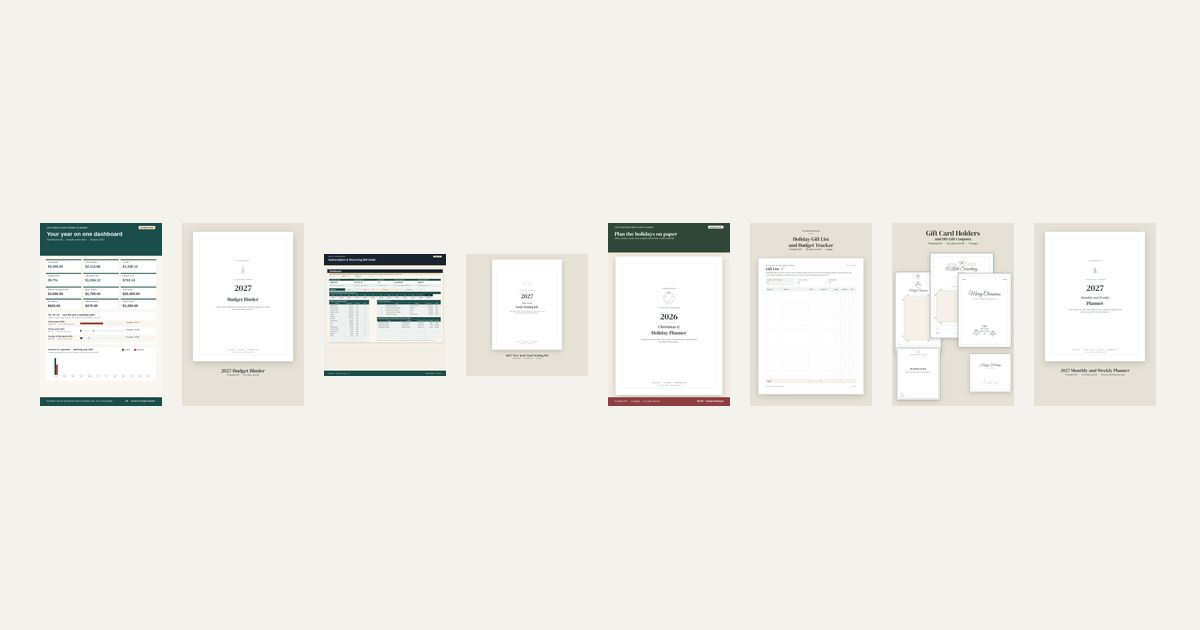
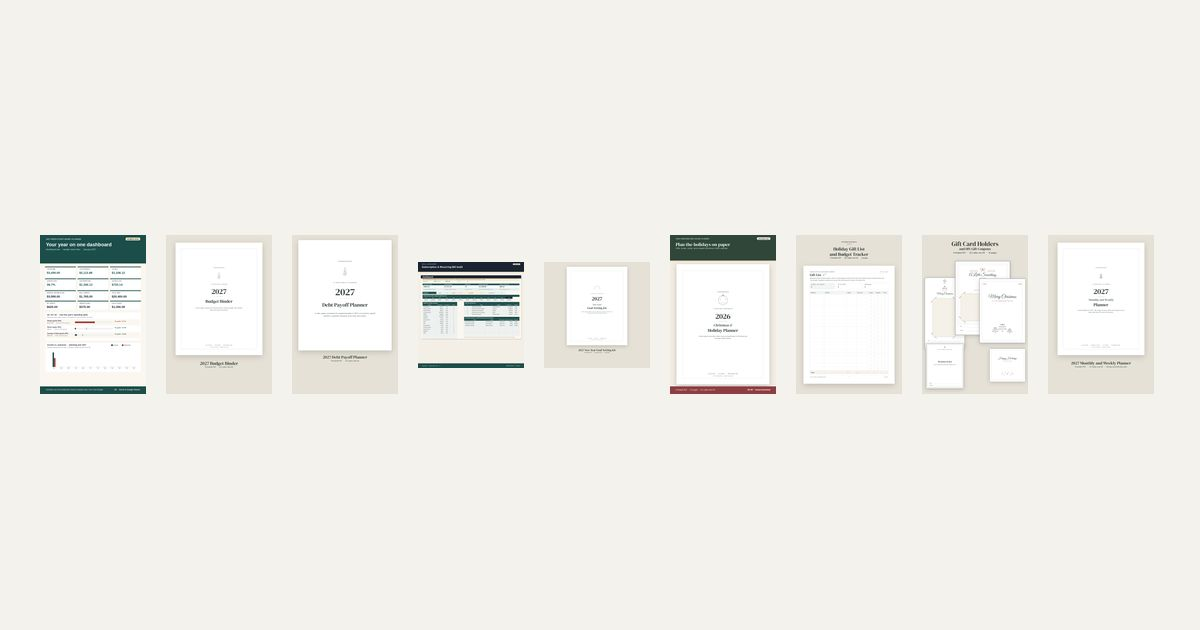
Prep only: 2027 Debt Payoff Planner
Do not merge to main until the Payhip URL arrives. Set buy_url
in _build/products.json from PLACEHOLDER_PAYHIP_URL to the real
https://payhip.com/b/... link, then run python3 _build/build.py
and commit to main.

- Landing page /debt-payoff-planner/, home grid card, $4.99
- Cross-links with /planner/ and /budget-binder/ in both directions
- Keeps the listing wording that this is an organizing tool, not financial advice
- Optimized previews; sitemap would become 11 URLs once published

Changed region(s): [[0.0308, 0.3317, 0.9558, 0.6635]]

diff --git a/debt-payoff-planner/index.html b/debt-payoff-planner/index.html
@@ -1,0 +1,129 @@
+<!DOCTYPE html>
+<html lang="en">
+<head>
+<meta charset="UTF-8">
+<meta name="viewport" content="width=device-width, initial-scale=1">
+<title>2027 Debt Payoff Planner | Frondworks</title>
+<meta name="description" content="A 15-page printable 2027 Debt Payoff Planner: inventory, snowball or avalanche worksheet, payoff trackers, and a 2027 payment schedule. US Letter and A4. $4.99.">
+<link rel="canonical" href="https://frondworks.com/debt-payoff-planner/">
+<meta property="og:type" content="product">
+<meta property="og:site_name" content="Frondworks">
+<meta property="og:title" content="2027 Debt Payoff Planner | Frondworks">
+<meta property="og:description" content="A 15-page printable 2027 Debt Payoff Planner: inventory, snowball or avalanche worksheet, payoff trackers, and a 2027 payment schedule. US Letter and A4. $4.99.">
+<meta property="og:url" content="https://frondworks.com/debt-payoff-planner/">
+<meta property="og:image" content="https://frondworks.com/img/debt-payoff-planner/cover-1200.jpg">
+<meta property="og:image:alt" content="Cover of the 2027 Debt Payoff Planner, a 15-page printable in US Letter and A4">
+<meta name="twitter:card" content="summary_large_image">
+<meta name="twitter:title" content="2027 Debt Payoff Planner | Frondworks">
+<meta name="twitter:description" content="A 15-page printable 2027 Debt Payoff Planner: inventory, snowball or avalanche worksheet, payoff trackers, and a 2027 payment schedule. US Letter and A4. $4.99.">
+<meta name="twitter:image" content="https://frondworks.com/img/debt-payoff-planner/cover-1200.jpg">
+<meta name="theme-color" content="#1f4d3a">
+<link rel="icon" href="/favicon.svg" type="image/svg+xml">
+<link rel="stylesheet" href="/assets/site.css">
+<script type="application/ld+json">{"@context":"https://schema.org","@type":"Product","name":"2027 Debt Payoff Planner","description":"A 15-page printable 2027 Debt Payoff Planner: inventory, snowball or avalanche worksheet, payoff trackers, and a 2027 payment schedule. US Letter and A4. $4.99.","url":"https://frondworks.com/debt-payoff-planner/","image":["https://frondworks.com/img/debt-payoff-planner/cover-1200.jpg","https://frondworks.com/img/debt-payoff-planner/progress-tracker-1200.jpg","https://frondworks.com/img/debt-payoff-planner/payment-schedule-1200.jpg"],"brand":{"@type":"Brand","name":"Frondworks"},"offers":{"@type":"Offer","price":"4.99","priceCurrency":"USD","availability":"https://schema.org/InStock","url":"PLACEHOLDER_PAYHIP_URL","seller":{"@type":"Organization","name":"Frondworks"}}}</script>
+<script type="application/ld+json">{"@context":"https://schema.org","@type":"BreadcrumbList","itemListElement":[{"@type":"ListItem","position":1,"name":"Frondworks","item":"https://frondworks.com/"},{"@type":"ListItem","position":2,"name":"2027 Debt Payoff Planner","item":"https://frondworks.com/debt-payoff-planner/"}]}</script>
+</head>
+<body>
+<a class="skip" href="#main">Skip to content</a>
+<header class="site-header">
+  <div class="wrap bar">
+    <a class="brand" href="/">Frondworks</a>
+    <nav aria-label="Main">
+      <a href="/#products">Products</a>
+      <a href="/#faq">FAQ</a>
+      <a href="/#contact">Contact</a>
+      <a class="nav-shop" href="https://payhip.com/Frondworks">Shop</a>
+    </nav>
+  </div>
+</header>
+<main id="main">
+  <section class="section product">
+    <div class="wrap">
+      <p class="crumbs"><a href="/">Home</a> <span aria-hidden="true">/</span> <a href="/#products">Products</a></p>
+      <h1>2027 Debt Payoff Planner</h1>
+      <p class="lede">A 15-page printable planner for organizing debts in 2027, with an inventory, snowball or avalanche worksheet, payoff trackers, and a 2027 payment schedule. US Letter and A4.</p>
+      <div class="buy">
+        <p class="price">$4.99 <span>USD</span></p>
+        <a class="btn big" href="PLACEHOLDER_PAYHIP_URL">Buy on Payhip</a>
+      </div>
+      <p class="callout"><a href="/planner/">Pair it with the 2027 Fresh Start Money Planner</a></p>
+      <p class="callout"><a href="/budget-binder/">Pair it with the 2027 Budget Binder</a></p>
+      <ul class="gallery" aria-label="Preview images">
+        <li><a href="/img/debt-payoff-planner/cover-1200.jpg"><picture><source type="image/webp" srcset="/img/debt-payoff-planner/cover-600.webp 400w, /img/debt-payoff-planner/cover-1200.webp 800w" sizes="(min-width: 900px) 33vw, 92vw"><img src="/img/debt-payoff-planner/cover-1200.jpg" alt="Cover of the 2027 Debt Payoff Planner, a 15-page printable in US Letter and A4" width="800" height="1200" fetchpriority="high"></picture></a></li>
+        <li><a href="/img/debt-payoff-planner/progress-tracker-1200.jpg"><picture><source type="image/webp" srcset="/img/debt-payoff-planner/progress-tracker-600.webp 400w, /img/debt-payoff-planner/progress-tracker-1200.webp 800w" sizes="(min-width: 900px) 33vw, 92vw"><img src="/img/debt-payoff-planner/progress-tracker-1200.jpg" alt="Debt payoff tracker and 100-square color-in progress chart pages" width="800" height="1200" loading="lazy" decoding="async"></picture></a></li>
+        <li><a href="/img/debt-payoff-planner/payment-schedule-1200.jpg"><picture><source type="image/webp" srcset="/img/debt-payoff-planner/payment-schedule-600.webp 400w, /img/debt-payoff-planner/payment-schedule-1200.webp 800w" sizes="(min-width: 900px) 33vw, 92vw"><img src="/img/debt-payoff-planner/payment-schedule-1200.jpg" alt="Monthly payment schedule page for January to December 2027" width="800" height="1200" loading="lazy" decoding="async"></picture></a></li>
+      </ul>
+    </div>
+    <div class="wrap narrow desc">
+      <h2>A calm, printable planner for organizing debts in 2027, made for home printing.</h2>
+      <p>This planner is an organizing tool, not financial advice. It does not calculate payoff dates or interest, and it does not tell you which method to use. Totals are left blank so you can add them by hand.</p>
+      <h3>Inside you will find</h3>
+      <ul class="ticks">
+        <li>A debt inventory, with space for the creditor, type, balance, interest rate, minimum payment, and due date.</li>
+        <li>A plain-language page on two common orders, snowball and avalanche, plus an ordering worksheet. Snowball orders debts from the smallest balance to the largest. Avalanche orders them from the highest interest rate to the lowest.</li>
+        <li>Six debt payoff trackers, each with a balance log and a small progress bar you can color in. Reprint a tracker if you have more than six debts.</li>
+        <li>A 100-square color-in progress chart for your starting total debt, a monthly payment schedule for January to December 2027, an interest and fees log, a page for optional milestone celebrations, and a year-end debt review.</li>
+      </ul>
+      <p>The planner is 15 pages, designed for home printing, with a calm layout, generous writing space, and light ink use.</p>
+      <p>You will receive two PDFs, one US Letter and one A4, plus a one-page terms of use. This is a digital download. No physical item will be shipped.</p>
+      <p>This is a planning tool, not financial advice. It does not calculate payoff dates or interest, and it does not tell you which method to use.</p>
+      <p>Print at 100% actual size, and reprint any page whenever you need a fresh copy.</p>
+      <p class="callout"><a href="/planner/">Pair it with the 2027 Fresh Start Money Planner</a></p>
+      <p class="callout"><a href="/budget-binder/">Pair it with the 2027 Budget Binder</a></p>
+      <div class="buy">
+        <p class="price">$4.99 <span>USD</span></p>
+        <a class="btn big" href="PLACEHOLDER_PAYHIP_URL">Buy on Payhip</a>
+      </div>
+      <p>Questions? See the <a href="/#faq">FAQ</a> or email <a href="mailto:hello@frondworks.com">hello@frondworks.com</a>.</p>
+      <h2 class="small">More from Frondworks</h2>
+      <ul>
+        <li><a href="/bundle/">2027 Fresh Start Bundle</a>, $14.99</li>
+        <li><a href="/planner/">2027 Fresh Start Money Planner</a>, $9</li>
+        <li><a href="/budget-binder/">2027 Budget Binder</a>, $6.99</li>
+        <li><a href="/bill-audit/">Subscription and Recurring Bill Audit</a>, $7</li>
+        <li><a href="/goal-kit/">2027 New Year Goal-Setting Kit</a>, $4.99</li>
+        <li><a href="/holiday-planner/">2026 Christmas and Holiday Planner</a>, $4.99</li>
+        <li><a href="/gift-list-tracker/">Holiday Gift List and Budget Tracker</a>, Free</li>
+        <li><a href="/gift-card-holders/">Printable Gift Card Holders and DIY Gift Coupons</a>, $4.99</li>
+        <li><a href="/monthly-weekly-planner/">2027 Monthly and Weekly Planner</a>, $4.99</li>
+        <li><a href="https://payhip.com/Frondworks">The full shop on Payhip</a></li>
+      </ul>
+    </div>
+  </section>
+</main>
+<footer class="site-footer">
+  <div class="wrap foot">
+    <div>
+      <p class="brand">Frondworks</p>
+      <p>Practical printables and spreadsheets for money, planning, and goals.</p>
+    </div>
+    <div>
+      <h2>Products</h2>
+      <ul>
+        <li><a href="/bundle/">2027 Fresh Start Bundle</a></li>
+        <li><a href="/planner/">2027 Fresh Start Money Planner</a></li>
+        <li><a href="/budget-binder/">2027 Budget Binder</a></li>
+        <li><a href="/debt-payoff-planner/">2027 Debt Payoff Planner</a></li>
+        <li><a href="/bill-audit/">Subscription and Recurring Bill Audit</a></li>
+        <li><a href="/goal-kit/">2027 New Year Goal-Setting Kit</a></li>
+        <li><a href="/holiday-planner/">2026 Christmas and Holiday Planner</a></li>
+        <li><a href="/gift-list-tracker/">Holiday Gift List and Budget Tracker</a></li>
+        <li><a href="/gift-card-holders/">Printable Gift Card Holders and DIY Gift Coupons</a></li>
+        <li><a href="/monthly-weekly-planner/">2027 Monthly and Weekly Planner</a></li>
+        <li><a href="https://payhip.com/Frondworks">Full shop on Payhip</a></li>
+      </ul>
+    </div>
+    <div>
+      <h2>Help</h2>
+      <ul>
+        <li><a href="/#faq">FAQ</a></li>
+        <li><a href="/#contact">Contact form</a></li>
+        <li><a href="mailto:hello@frondworks.com">hello@frondworks.com</a></li>
+      </ul>
+    </div>
+  </div>
+  <div class="wrap legal">&copy; 2026 Frondworks</div>
+</footer>
+<script src="/assets/site.js" defer></script>
+</body>
+</html>

diff --git a/index.html b/index.html
@@ -22,7 +22,7 @@
 <link rel="stylesheet" href="/assets/site.css">
 <script type="application/ld+json">{"@context":"https://schema.org","@type":"Organization","name":"Frondworks","url":"https://frondworks.com/","email":"hello@frondworks.com","sameAs":["https://payhip.com/Frondworks"]}</script>
 <script type="application/ld+json">{"@context":"https://schema.org","@type":"WebSite","name":"Frondworks","url":"https://frondworks.com/"}</script>
-<script type="application/ld+json">{"@context":"https://schema.org","@type":"ItemList","itemListElement":[{"@type":"ListItem","position":1,"url":"https://frondworks.com/bundle/","name":"2027 Fresh Start Bundle"},{"@type":"ListItem","position":2,"url":"https://frondworks.com/planner/","name":"2027 Fresh Start Money Planner"},{"@type":"ListItem","position":3,"url":"https://frondworks.com/budget-binder/","name":"2027 Budget Binder"},{"@type":"ListItem","position":4,"url":"https://frondworks.com/bill-audit/","name":"Subscription and Recurring Bill Audit"},{"@type":"ListItem","position":5,"url":"https://frondworks.com/goal-kit/","name":"2027 New Year Goal-Setting Kit"},{"@type":"ListItem","position":6,"url":"https://frondworks.com/holiday-planner/","name":"2026 Christmas and Holiday Planner"},{"@type":"ListItem","position":7,"url":"https://frondworks.com/gift-list-tracker/","name":"Holiday Gift List and Budget Tracker"},{"@type":"ListItem","position":8,"url":"https://frondworks.com/gift-card-holders/","name":"Printable Gift Card Holders and DIY Gift Coupons"},{"@type":"ListItem","position":9,"url":"https://frondworks.com/monthly-weekly-planner/","name":"2027 Monthly and Weekly Planner"}]}</script>
+<script type="application/ld+json">{"@context":"https://schema.org","@type":"ItemList","itemListElement":[{"@type":"ListItem","position":1,"url":"https://frondworks.com/bundle/","name":"2027 Fresh Start Bundle"},{"@type":"ListItem","position":2,"url":"https://frondworks.com/planner/","name":"2027 Fresh Start Money Planner"},{"@type":"ListItem","position":3,"url":"https://frondworks.com/budget-binder/","name":"2027 Budget Binder"},{"@type":"ListItem","position":4,"url":"https://frondworks.com/debt-payoff-planner/","name":"2027 Debt Payoff Planner"},{"@type":"ListItem","position":5,"url":"https://frondworks.com/bill-audit/","name":"Subscription and Recurring Bill Audit"},{"@type":"ListItem","position":6,"url":"https://frondworks.com/goal-kit/","name":"2027 New Year Goal-Setting Kit"},{"@type":"ListItem","position":7,"url":"https://frondworks.com/holiday-planner/","name":"2026 Christmas and Holiday Planner"},{"@type":"ListItem","position":8,"url":"https://frondworks.com/gift-list-tracker/","name":"Holiday Gift List and Budget Tracker"},{"@type":"ListItem","position":9,"url":"https://frondworks.com/gift-card-holders/","name":"Printable Gift Card Holders and DIY Gift Coupons"},{"@type":"ListItem","position":10,"url":"https://frondworks.com/monthly-weekly-planner/","name":"2027 Monthly and Weekly Planner"}]}</script>
 </head>
 <body>
 <a class="skip" href="#main">Skip to content</a>
@@ -88,6 +88,19 @@
           <div class="actions">
             <a class="btn" href="https://payhip.com/b/mHLPy">Buy on Payhip<span class="sr">, 2027 Budget Binder</span></a>
             <a class="btn ghost" href="/budget-binder/">Details<span class="sr">, 2027 Budget Binder</span></a>
+          </div>
+        </div>
+      </li>
+      <li class="card">
+        <a class="card-img" href="/debt-payoff-planner/" tabindex="-1" aria-hidden="true"><picture><source type="image/webp" srcset="/img/debt-payoff-planner/cover-600.webp 400w, /img/debt-payoff-planner/cover-1200.webp 800w" sizes="(min-width: 900px) 360px, (min-width: 600px) 45vw, 92vw"><img src="/img/debt-payoff-planner/cover-1200.jpg" alt="Cover of the 2027 Debt Payoff Planner, a 15-page printable in US Letter and A4" width="800" height="1200" loading="lazy" decoding="async"></picture></a>
+        <div class="card-body">
+          <h3><a href="/debt-payoff-planner/">2027 Debt Payoff Planner</a></h3>
+          <p class="fmt">Printable PDF, US Letter and A4</p>
+          <p>A 15-page printable planner for organizing debts in 2027, with an inventory, payoff trackers, and a monthly payment schedule.</p>
+          <p class="price">$4.99</p>
+          <div class="actions">
+            <a class="btn" href="PLACEHOLDER_PAYHIP_URL">Buy on Payhip<span class="sr">, 2027 Debt Payoff Planner</span></a>
+            <a class="btn ghost" href="/debt-payoff-planner/">Details<span class="sr">, 2027 Debt Payoff Planner</span></a>
           </div>
         </div>
       </li>
@@ -190,7 +203,7 @@
       </details>
       <details>
         <summary>What formats are the files?</summary>
-        <p>The Money Planner and Bill Audit are Excel workbooks that also work in Google Sheets, with instructions PDFs. The Goal-Setting Kit and Christmas and Holiday Planner are printable PDFs in US Letter and A4. The Monthly and Weekly Planner includes four PDFs: US Letter and A4, in Sunday start and Monday start editions. The Budget Binder is a 28-page printable PDF in US Letter and A4. The Holiday Gift List and Budget Tracker is a free two-page printable PDF in US Letter and A4. The Gift Card Holders and DIY Gift Coupons pack is a 15-page printable PDF in US Letter and A4. The 2027 Fresh Start Bundle includes the Money Planner, the Bill Audit, and the Goal-Setting Kit in one purchase.</p>
+        <p>The Money Planner and Bill Audit are Excel workbooks that also work in Google Sheets, with instructions PDFs. The Goal-Setting Kit and Christmas and Holiday Planner are printable PDFs in US Letter and A4. The Monthly and Weekly Planner includes four PDFs: US Letter and A4, in Sunday start and Monday start editions. The Budget Binder is a 28-page printable PDF in US Letter and A4. The Holiday Gift List and Budget Tracker is a free two-page printable PDF in US Letter and A4. The Gift Card Holders and DIY Gift Coupons pack is a 15-page printable PDF in US Letter and A4. The Debt Payoff Planner is a 15-page printable PDF in US Letter and A4. The 2027 Fresh Start Bundle includes the Money Planner, the Bill Audit, and the Goal-Setting Kit in one purchase.</p>
       </details>
       <details>
         <summary>What is in the 2027 Fresh Start Bundle?</summary>
@@ -282,6 +295,7 @@
         <li><a href="/bundle/">2027 Fresh Start Bundle</a></li>
         <li><a href="/planner/">2027 Fresh Start Money Planner</a></li>
         <li><a href="/budget-binder/">2027 Budget Binder</a></li>
+        <li><a href="/debt-payoff-planner/">2027 Debt Payoff Planner</a></li>
         <li><a href="/bill-audit/">Subscription and Recurring Bill Audit</a></li>
         <li><a href="/goal-kit/">2027 New Year Goal-Setting Kit</a></li>
         <li><a href="/holiday-planner/">2026 Christmas and Holiday Planner</a></li>

diff --git a/planner/index.html b/planner/index.html
@@ -48,6 +48,7 @@
       </div>
       <p class="callout"><a href="/bundle/">Get all three in the 2027 Fresh Start Bundle for $14.99</a>. Bought separately they are $20.99, so you save $6.</p>
       <p class="callout"><a href="/budget-binder/">Pair it with the 2027 Budget Binder</a></p>
+      <p class="callout"><a href="/debt-payoff-planner/">Pair it with the 2027 Debt Payoff Planner</a></p>
       <ul class="gallery" aria-label="Preview images">
         <li><a href="/img/planner/dashboard-1200.jpg"><picture><source type="image/webp" srcset="/img/planner/dashboard-600.webp 400w, /img/planner/dashboard-1200.webp 800w" sizes="(min-width: 900px) 33vw, 92vw"><img src="/img/planner/dashboard-1200.jpg" alt="Planner dashboard tab with year-to-date totals, a 50/30/20 split, and a monthly income vs. expenses chart, filled with sample data" width="800" height="1200" fetchpriority="high"></picture></a></li>
         <li><a href="/img/planner/holiday-cap-1200.jpg"><picture><source type="image/webp" srcset="/img/planner/holiday-cap-600.webp 400w, /img/planner/holiday-cap-1200.webp 800w" sizes="(min-width: 900px) 33vw, 92vw"><img src="/img/planner/holiday-cap-1200.jpg" alt="Holiday Planner tab with a spending cap, other holiday expenses, and a gift list, filled with sample data" width="800" height="1200" loading="lazy" decoding="async"></picture></a></li>
@@ -70,6 +71,7 @@
       <p>This is a planning tool, not financial advice. It does not sync with a bank or send reminders.</p>
       <p class="callout"><a href="/bundle/">Get all three in the 2027 Fresh Start Bundle for $14.99</a>. Bought separately they are $20.99, so you save $6.</p>
       <p class="callout"><a href="/budget-binder/">Pair it with the 2027 Budget Binder</a></p>
+      <p class="callout"><a href="/debt-payoff-planner/">Pair it with the 2027 Debt Payoff Planner</a></p>
       <div class="buy">
         <p class="price">$9 <span>USD</span></p>
         <a class="btn big" href="https://payhip.com/b/gYt75">Buy on Payhip</a>
@@ -79,6 +81,7 @@
       <ul>
         <li><a href="/bundle/">2027 Fresh Start Bundle</a>, $14.99</li>
         <li><a href="/budget-binder/">2027 Budget Binder</a>, $6.99</li>
+        <li><a href="/debt-payoff-planner/">2027 Debt Payoff Planner</a>, $4.99</li>
         <li><a href="/bill-audit/">Subscription and Recurring Bill Audit</a>, $7</li>
         <li><a href="/goal-kit/">2027 New Year Goal-Setting Kit</a>, $4.99</li>
         <li><a href="/holiday-planner/">2026 Christmas and Holiday Planner</a>, $4.99</li>
@@ -102,6 +105,7 @@
         <li><a href="/bundle/">2027 Fresh Start Bundle</a></li>
         <li><a href="/planner/">2027 Fresh Start Money Planner</a></li>
         <li><a href="/budget-binder/">2027 Budget Binder</a></li>
+        <li><a href="/debt-payoff-planner/">2027 Debt Payoff Planner</a></li>
         <li><a href="/bill-audit/">Subscription and Recurring Bill Audit</a></li>
         <li><a href="/goal-kit/">2027 New Year Goal-Setting Kit</a></li>
         <li><a href="/holiday-planner/">2026 Christmas and Holiday Planner</a></li>

diff --git a/budget-binder/index.html b/budget-binder/index.html
@@ -47,6 +47,7 @@
         <a class="btn big" href="https://payhip.com/b/mHLPy">Buy on Payhip</a>
       </div>
       <p class="callout"><a href="/planner/">Pair it with the 2027 Fresh Start Money Planner</a></p>
+      <p class="callout"><a href="/debt-payoff-planner/">Pair it with the 2027 Debt Payoff Planner</a></p>
       <ul class="gallery" aria-label="Preview images">
         <li><a href="/img/budget-binder/cover-1200.jpg"><picture><source type="image/webp" srcset="/img/budget-binder/cover-600.webp 400w, /img/budget-binder/cover-1200.webp 800w" sizes="(min-width: 900px) 33vw, 92vw"><img src="/img/budget-binder/cover-1200.jpg" alt="Cover of the 2027 Budget Binder, a 28-page printable in US Letter and A4" width="800" height="1200" fetchpriority="high"></picture></a></li>
         <li><a href="/img/budget-binder/monthly-budget-1200.jpg"><picture><source type="image/webp" srcset="/img/budget-binder/monthly-budget-600.webp 400w, /img/budget-binder/monthly-budget-1200.webp 800w" sizes="(min-width: 900px) 33vw, 92vw"><img src="/img/budget-binder/monthly-budget-1200.jpg" alt="January 2027 monthly budget page with income, bills, categories, and columns for budgeted, actual, and difference" width="800" height="1200" loading="lazy" decoding="async"></picture></a></li>
@@ -68,6 +69,7 @@
       <p>This is a planning tool, not financial advice. It does not connect to a bank or calculate totals for you.</p>
       <p>Print at 100% actual size, and reprint any page whenever you need a fresh copy.</p>
       <p class="callout"><a href="/planner/">Pair it with the 2027 Fresh Start Money Planner</a></p>
+      <p class="callout"><a href="/debt-payoff-planner/">Pair it with the 2027 Debt Payoff Planner</a></p>
       <div class="buy">
         <p class="price">$6.99 <span>USD</span></p>
         <a class="btn big" href="https://payhip.com/b/mHLPy">Buy on Payhip</a>
@@ -77,6 +79,7 @@
       <ul>
         <li><a href="/bundle/">2027 Fresh Start Bundle</a>, $14.99</li>
         <li><a href="/planner/">2027 Fresh Start Money Planner</a>, $9</li>
+        <li><a href="/debt-payoff-planner/">2027 Debt Payoff Planner</a>, $4.99</li>
         <li><a href="/bill-audit/">Subscription and Recurring Bill Audit</a>, $7</li>
         <li><a href="/goal-kit/">2027 New Year Goal-Setting Kit</a>, $4.99</li>
         <li><a href="/holiday-planner/">2026 Christmas and Holiday Planner</a>, $4.99</li>
@@ -100,6 +103,7 @@
         <li><a href="/bundle/">2027 Fresh Start Bundle</a></li>
         <li><a href="/planner/">2027 Fresh Start Money Planner</a></li>
         <li><a href="/budget-binder/">2027 Budget Binder</a></li>
+        <li><a href="/debt-payoff-planner/">2027 Debt Payoff Planner</a></li>
         <li><a href="/bill-audit/">Subscription and Recurring Bill Audit</a></li>
         <li><a href="/goal-kit/">2027 New Year Goal-Setting Kit</a></li>
         <li><a href="/holiday-planner/">2026 Christmas and Holiday Planner</a></li>

diff --git a/goal-kit/index.html b/goal-kit/index.html
@@ -79,6 +79,7 @@
         <li><a href="/bundle/">2027 Fresh Start Bundle</a>, $14.99</li>
         <li><a href="/planner/">2027 Fresh Start Money Planner</a>, $9</li>
         <li><a href="/budget-binder/">2027 Budget Binder</a>, $6.99</li>
+        <li><a href="/debt-payoff-planner/">2027 Debt Payoff Planner</a>, $4.99</li>
         <li><a href="/bill-audit/">Subscription and Recurring Bill Audit</a>, $7</li>
         <li><a href="/holiday-planner/">2026 Christmas and Holiday Planner</a>, $4.99</li>
         <li><a href="/gift-list-tracker/">Holiday Gift List and Budget Tracker</a>, Free</li>
@@ -101,6 +102,7 @@
         <li><a href="/bundle/">2027 Fresh Start Bundle</a></li>
         <li><a href="/planner/">2027 Fresh Start Money Planner</a></li>
         <li><a href="/budget-binder/">2027 Budget Binder</a></li>
+        <li><a href="/debt-payoff-planner/">2027 Debt Payoff Planner</a></li>
         <li><a href="/bill-audit/">Subscription and Recurring Bill Audit</a></li>
         <li><a href="/goal-kit/">2027 New Year Goal-Setting Kit</a></li>
         <li><a href="/holiday-planner/">2026 Christmas and Holiday Planner</a></li>

diff --git a/bill-audit/index.html b/bill-audit/index.html
@@ -75,6 +75,7 @@
         <li><a href="/bundle/">2027 Fresh Start Bundle</a>, $14.99</li>
         <li><a href="/planner/">2027 Fresh Start Money Planner</a>, $9</li>
         <li><a href="/budget-binder/">2027 Budget Binder</a>, $6.99</li>
+        <li><a href="/debt-payoff-planner/">2027 Debt Payoff Planner</a>, $4.99</li>
         <li><a href="/goal-kit/">2027 New Year Goal-Setting Kit</a>, $4.99</li>
         <li><a href="/holiday-planner/">2026 Christmas and Holiday Planner</a>, $4.99</li>
         <li><a href="/gift-list-tracker/">Holiday Gift List and Budget Tracker</a>, Free</li>
@@ -97,6 +98,7 @@
         <li><a href="/bundle/">2027 Fresh Start Bundle</a></li>
         <li><a href="/planner/">2027 Fresh Start Money Planner</a></li>
         <li><a href="/budget-binder/">2027 Budget Binder</a></li>
+        <li><a href="/debt-payoff-planner/">2027 Debt Payoff Planner</a></li>
         <li><a href="/bill-audit/">Subscription and Recurring Bill Audit</a></li>
         <li><a href="/goal-kit/">2027 New Year Goal-Setting Kit</a></li>
         <li><a href="/holiday-planner/">2026 Christmas and Holiday Planner</a></li>

diff --git a/holiday-planner/index.html b/holiday-planner/index.html
@@ -81,6 +81,7 @@
         <li><a href="/bundle/">2027 Fresh Start Bundle</a>, $14.99</li>
         <li><a href="/planner/">2027 Fresh Start Money Planner</a>, $9</li>
         <li><a href="/budget-binder/">2027 Budget Binder</a>, $6.99</li>
+        <li><a href="/debt-payoff-planner/">2027 Debt Payoff Planner</a>, $4.99</li>
         <li><a href="/bill-audit/">Subscription and Recurring Bill Audit</a>, $7</li>
         <li><a href="/goal-kit/">2027 New Year Goal-Setting Kit</a>, $4.99</li>
         <li><a href="/gift-list-tracker/">Holiday Gift List and Budget Tracker</a>, Free</li>
@@ -103,6 +104,7 @@
         <li><a href="/bundle/">2027 Fresh Start Bundle</a></li>
         <li><a href="/planner/">2027 Fresh Start Money Planner</a></li>
         <li><a href="/budget-binder/">2027 Budget Binder</a></li>
+        <li><a href="/debt-payoff-planner/">2027 Debt Payoff Planner</a></li>
         <li><a href="/bill-audit/">Subscription and Recurring Bill Audit</a></li>
         <li><a href="/goal-kit/">2027 New Year Goal-Setting Kit</a></li>
         <li><a href="/holiday-planner/">2026 Christmas and Holiday Planner</a></li>

diff --git a/gift-card-holders/index.html b/gift-card-holders/index.html
@@ -78,6 +78,7 @@
         <li><a href="/bundle/">2027 Fresh Start Bundle</a>, $14.99</li>
         <li><a href="/planner/">2027 Fresh Start Money Planner</a>, $9</li>
         <li><a href="/budget-binder/">2027 Budget Binder</a>, $6.99</li>
+        <li><a href="/debt-payoff-planner/">2027 Debt Payoff Planner</a>, $4.99</li>
         <li><a href="/bill-audit/">Subscription and Recurring Bill Audit</a>, $7</li>
         <li><a href="/goal-kit/">2027 New Year Goal-Setting Kit</a>, $4.99</li>
         <li><a href="/holiday-planner/">2026 Christmas and Holiday Planner</a>, $4.99</li>
@@ -100,6 +101,7 @@
         <li><a href="/bundle/">2027 Fresh Start Bundle</a></li>
         <li><a href="/planner/">2027 Fresh Start Money Planner</a></li>
         <li><a href="/budget-binder/">2027 Budget Binder</a></li>
+        <li><a href="/debt-payoff-planner/">2027 Debt Payoff Planner</a></li>
         <li><a href="/bill-audit/">Subscription and Recurring Bill Audit</a></li>
         <li><a href="/goal-kit/">2027 New Year Goal-Setting Kit</a></li>
         <li><a href="/holiday-planner/">2026 Christmas and Holiday Planner</a></li>

diff --git a/gift-list-tracker/index.html b/gift-list-tracker/index.html
@@ -81,6 +81,7 @@
         <li><a href="/bundle/">2027 Fresh Start Bundle</a>, $14.99</li>
         <li><a href="/planner/">2027 Fresh Start Money Planner</a>, $9</li>
         <li><a href="/budget-binder/">2027 Budget Binder</a>, $6.99</li>
+        <li><a href="/debt-payoff-planner/">2027 Debt Payoff Planner</a>, $4.99</li>
         <li><a href="/bill-audit/">Subscription and Recurring Bill Audit</a>, $7</li>
         <li><a href="/goal-kit/">2027 New Year Goal-Setting Kit</a>, $4.99</li>
         <li><a href="/holiday-planner/">2026 Christmas and Holiday Planner</a>, $4.99</li>
@@ -103,6 +104,7 @@
         <li><a href="/bundle/">2027 Fresh Start Bundle</a></li>
         <li><a href="/planner/">2027 Fresh Start Money Planner</a></li>
         <li><a href="/budget-binder/">2027 Budget Binder</a></li>
+        <li><a href="/debt-payoff-planner/">2027 Debt Payoff Planner</a></li>
         <li><a href="/bill-audit/">Subscription and Recurring Bill Audit</a></li>
         <li><a href="/goal-kit/">2027 New Year Goal-Setting Kit</a></li>
         <li><a href="/holiday-planner/">2026 Christmas and Holiday Planner</a></li>

diff --git a/monthly-weekly-planner/index.html b/monthly-weekly-planner/index.html
@@ -76,6 +76,7 @@
         <li><a href="/bundle/">2027 Fresh Start Bundle</a>, $14.99</li>
         <li><a href="/planner/">2027 Fresh Start Money Planner</a>, $9</li>
         <li><a href="/budget-binder/">2027 Budget Binder</a>, $6.99</li>
+        <li><a href="/debt-payoff-planner/">2027 Debt Payoff Planner</a>, $4.99</li>
         <li><a href="/bill-audit/">Subscription and Recurring Bill Audit</a>, $7</li>
         <li><a href="/goal-kit/">2027 New Year Goal-Setting Kit</a>, $4.99</li>
         <li><a href="/holiday-planner/">2026 Christmas and Holiday Planner</a>, $4.99</li>
@@ -98,6 +99,7 @@
         <li><a href="/bundle/">2027 Fresh Start Bundle</a></li>
         <li><a href="/planner/">2027 Fresh Start Money Planner</a></li>
         <li><a href="/budget-binder/">2027 Budget Binder</a></li>
+        <li><a href="/debt-payoff-planner/">2027 Debt Payoff Planner</a></li>
         <li><a href="/bill-audit/">Subscription and Recurring Bill Audit</a></li>
         <li><a href="/goal-kit/">2027 New Year Goal-Setting Kit</a></li>
         <li><a href="/holiday-planner/">2026 Christmas and Holiday Planner</a></li>

diff --git a/bundle/index.html b/bundle/index.html
@@ -76,6 +76,7 @@
       <ul>
         <li><a href="/planner/">2027 Fresh Start Money Planner</a>, $9</li>
         <li><a href="/budget-binder/">2027 Budget Binder</a>, $6.99</li>
+        <li><a href="/debt-payoff-planner/">2027 Debt Payoff Planner</a>, $4.99</li>
         <li><a href="/bill-audit/">Subscription and Recurring Bill Audit</a>, $7</li>
         <li><a href="/goal-kit/">2027 New Year Goal-Setting Kit</a>, $4.99</li>
         <li><a href="/holiday-planner/">2026 Christmas and Holiday Planner</a>, $4.99</li>
@@ -99,6 +100,7 @@
         <li><a href="/bundle/">2027 Fresh Start Bundle</a></li>
         <li><a href="/planner/">2027 Fresh Start Money Planner</a></li>
         <li><a href="/budget-binder/">2027 Budget Binder</a></li>
+        <li><a href="/debt-payoff-planner/">2027 Debt Payoff Planner</a></li>
         <li><a href="/bill-audit/">Subscription and Recurring Bill Audit</a></li>
         <li><a href="/goal-kit/">2027 New Year Goal-Setting Kit</a></li>
         <li><a href="/holiday-planner/">2026 Christmas and Holiday Planner</a></li>

diff --git a/_build/build.py b/_build/build.py
@@ -231,7 +231,7 @@ FORM = open(os.path.join(ROOT, "_build", "contact-form.html")).read().rstrip()
 
 FAQ = [
     ("How do I get my files?", "Checkout is handled by Payhip. After you pay, you get an instant download of a zip file. No physical item is shipped."),
-    ("What formats are the files?", "The Money Planner and Bill Audit are Excel workbooks that also work in Google Sheets, with instructions PDFs. The Goal-Setting Kit and Christmas and Holiday Planner are printable PDFs in US Letter and A4. The Monthly and Weekly Planner includes four PDFs: US Letter and A4, in Sunday start and Monday start editions. The Budget Binder is a 28-page printable PDF in US Letter and A4. The Holiday Gift List and Budget Tracker is a free two-page printable PDF in US Letter and A4. The Gift Card Holders and DIY Gift Coupons pack is a 15-page printable PDF in US Letter and A4. The 2027 Fresh Start Bundle includes the Money Planner, the Bill Audit, and the Goal-Setting Kit in one purchase."),
+    ("What formats are the files?", "The Money Planner and Bill Audit are Excel workbooks that also work in Google Sheets, with instructions PDFs. The Goal-Setting Kit and Christmas and Holiday Planner are printable PDFs in US Letter and A4. The Monthly and Weekly Planner includes four PDFs: US Letter and A4, in Sunday start and Monday start editions. The Budget Binder is a 28-page printable PDF in US Letter and A4. The Holiday Gift List and Budget Tracker is a free two-page printable PDF in US Letter and A4. The Gift Card Holders and DIY Gift Coupons pack is a 15-page printable PDF in US Letter and A4. The Debt Payoff Planner is a 15-page printable PDF in US Letter and A4. The 2027 Fresh Start Bundle includes the Money Planner, the Bill Audit, and the Goal-Setting Kit in one purchase."),
     ("What is in the 2027 Fresh Start Bundle?", "It includes the 2027 Fresh Start Money Planner ($9), the Subscription and Recurring Bill Audit ($7), and the 2027 New Year Goal-Setting Kit ($4.99). Bought separately they are $20.99. The bundle is $14.99, so you save $6 versus buying them separately."),
     ("Can I share or resell the files?", "No. Each product is licensed for personal use: you may use, edit, and print it for yourself and your household. Please do not resell, share, or redistribute the files. The terms are included in each download."),
     ("Do the spreadsheets connect to my bank?", "No. You type the numbers. The spreadsheets do not connect to your bank or send reminders, and they use no macros."),
